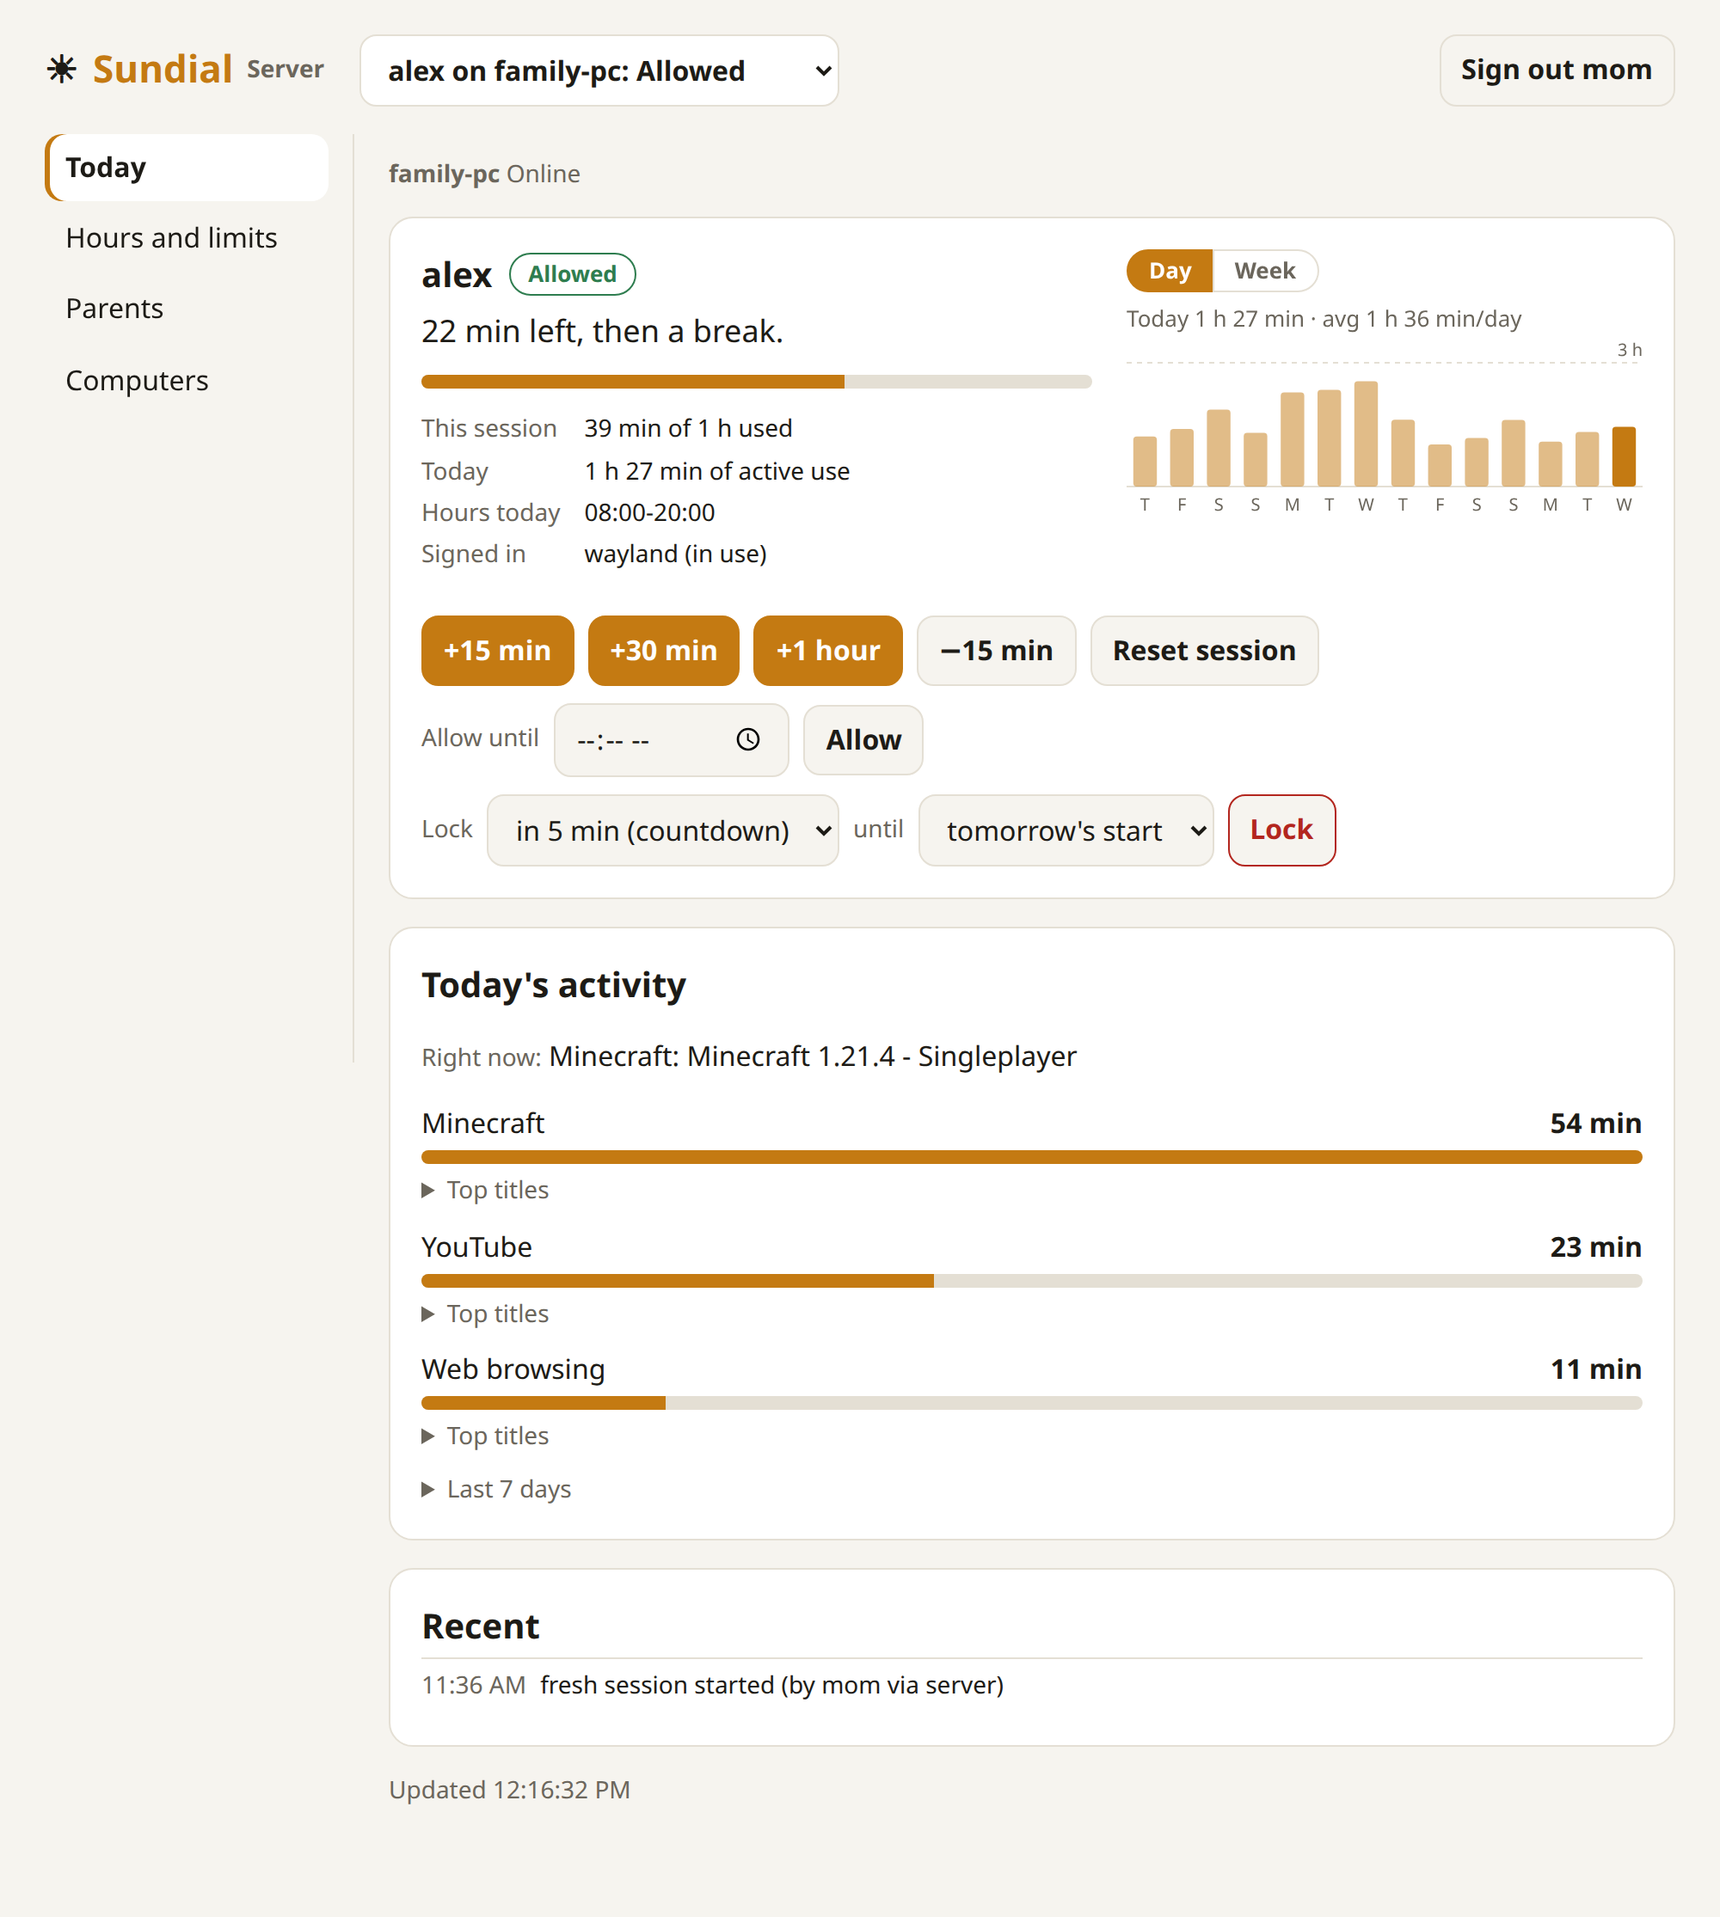
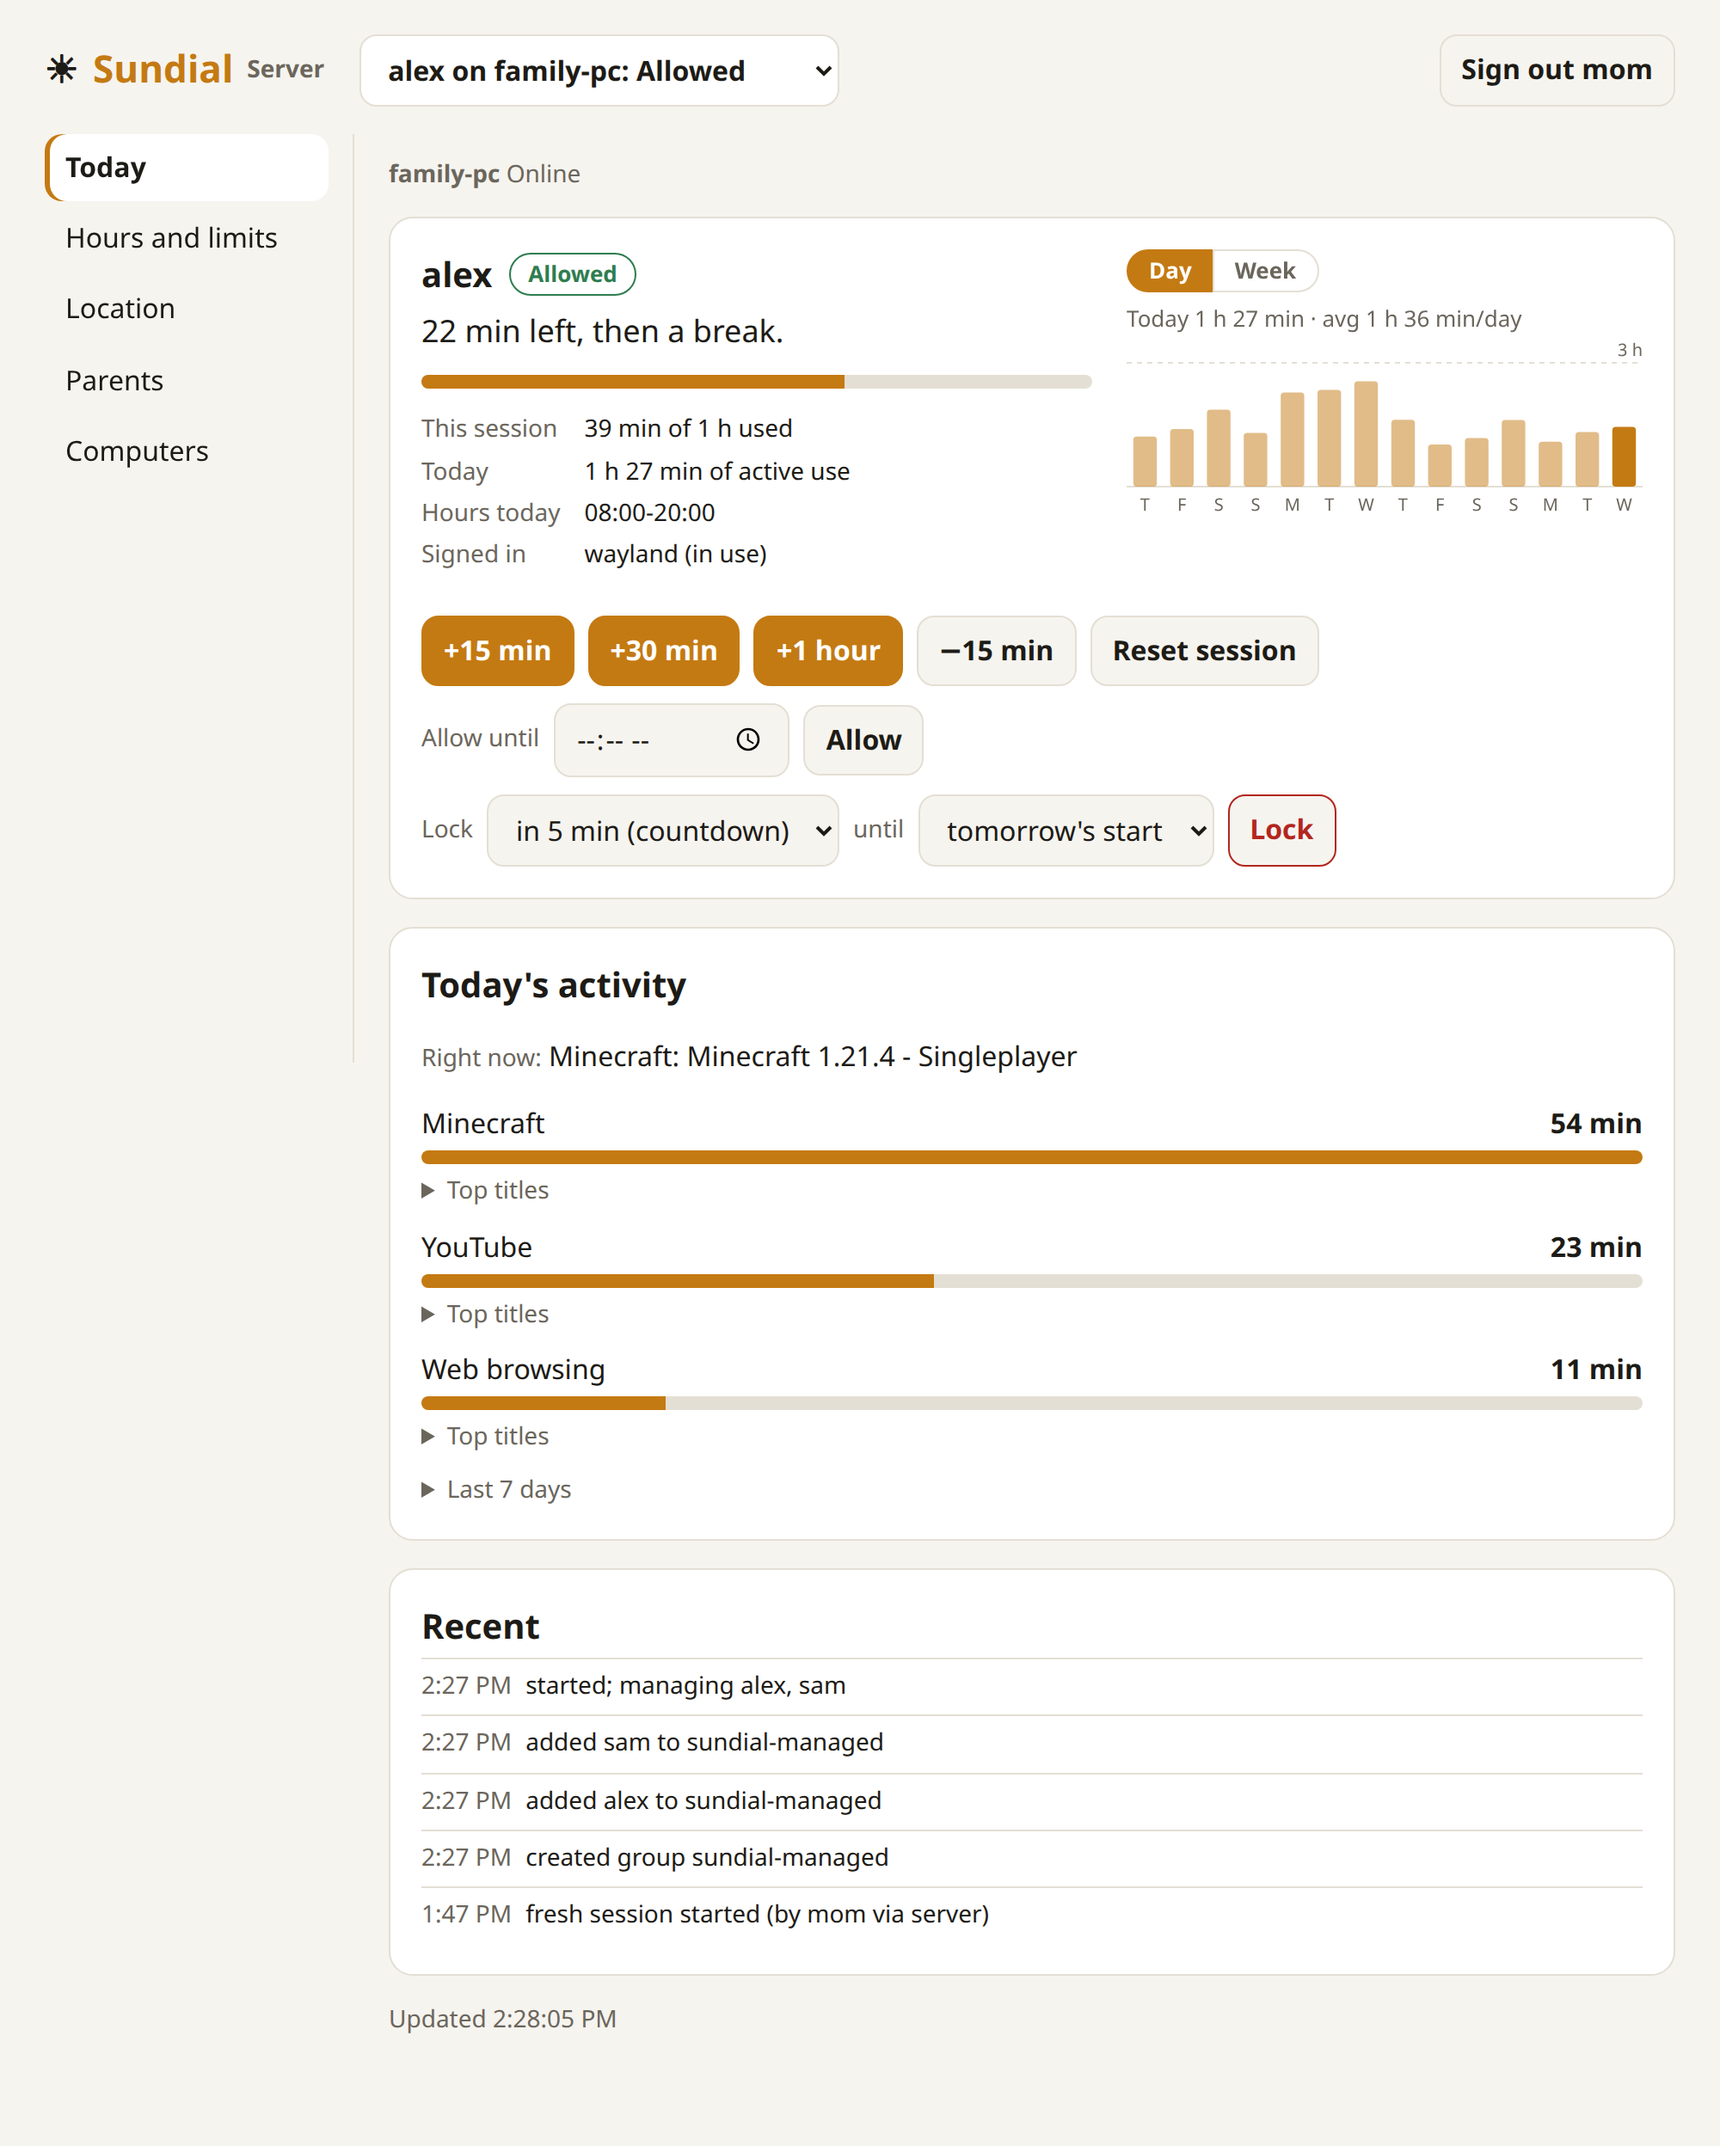
0.2.2: location

diff --git a/src/web.rs b/src/web.rs
@@ -92,6 +92,9 @@ impl Backend for Computers {
     }
 
     fn tab(&self, id: &str) -> Option<String> {
+        if id == "location" {
+            return Some(self.location());
+        }
         if id != "computers" {
             return None;
         }
@@ -115,8 +118,109 @@ impl Backend for Computers {
     }
 }
 
+impl Computers {
+    fn location(&self) -> String {
+        let now = Local::now();
+        let mut h = String::new();
+        for c in self.0.list(now.timestamp()) {
+            h.push_str(&location_card(&c, &now));
+        }
+        if h.is_empty() {
+            h.push_str(
+                "<section class=card><h2>Location</h2><p>Add a computer first.</p></section>",
+            );
+        }
+        h
+    }
+}
+
+fn location_card(c: &HostSummary, now: &DateTime<Local>) -> String {
+    let head = format!(
+        "<section class=card><h2>{} <span class='pill {}'>{}</span></h2>",
+        esc(&c.name),
+        if c.online { "ok" } else { "wait" },
+        state(c, now)
+    );
+    let Some(l) = c.status.as_ref().and_then(|s| s.location.as_ref()) else {
+        return format!(
+            "{head}<p class=muted>Sundial on this computer needs an update before it can show its location.</p></section>"
+        );
+    };
+    let button = |on: &str, class: &str, text: &str| {
+        format!(
+            "<form method=post action=/location class=row><input type=hidden name=id value=\"{}\">\
+             <input type=hidden name=on value={on}><button{class}>{text}</button></form>",
+            esc(&c.id)
+        )
+    };
+    if !l.on {
+        return format!(
+            "{head}<p>Location is off.</p><p class=muted>When it's on, this computer looks up its position every few minutes using \
+             the networks around it, and the child sees a notice that it's on. Only the latest position is kept.</p>{}</section>",
+            button("1", " class=primary", "Turn on location")
+        );
+    }
+    let place = match l.fix.filter(|f| f.valid()) {
+        Some(f) => format!(
+            "<p class=big>Within about {} of {:.4}, {:.4}</p>{}\
+             <p class=muted>As of {}.{}</p>\
+             <div class=row><a class=plain href=\"https://www.openstreetmap.org/?mlat={:.5}&amp;mlon={:.5}#map={}/{:.5}/{:.5}\" target=_blank rel=noreferrer>Show on a map</a></div>",
+            distance(f.accuracy_m),
+            f.lat,
+            f.lon,
+            if f.accuracy_m > ROUGH_METERS {
+                "<p class='flash err'>This is only a rough area. It's often the internet provider's location, not the computer's.</p>"
+            } else {
+                ""
+            },
+            fmt_when(f.at, now),
+            if c.online {
+                ""
+            } else {
+                " It's offline now, so it may have moved."
+            },
+            f.lat,
+            f.lon,
+            if f.accuracy_m > ROUGH_METERS { 10 } else { 16 },
+            f.lat,
+            f.lon
+        ),
+        None if l.problem.is_some() => String::new(),
+        None => "<p>Looking. The first position can take a minute.</p>".into(),
+    };
+    let problem = l
+        .problem
+        .as_ref()
+        .map(|p| {
+            format!(
+                "<p class='flash err'>The last try didn't work: {}</p>",
+                esc(p)
+            )
+        })
+        .unwrap_or_default();
+    format!(
+        "{head}{place}{problem}{}</section>",
+        button("0", "", "Turn off location")
+    )
+}
+
+const ROUGH_METERS: f64 = 3000.0;
+
+fn distance(m: f64) -> String {
+    if m < 1000.0 {
+        format!("{} m", ((m / 10.0).ceil() * 10.0).max(10.0))
+    } else {
+        format!("{} km", (m / 1000.0).round())
+    }
+}
+
 pub fn tabs() -> Vec<Tab> {
     vec![
+        Tab {
+            id: "location",
+            label: "Location",
+            href: "/?tab=location",
+        },
         Tab {
             id: "parents",
             label: "Parents",
@@ -143,6 +247,7 @@ pub fn router(hub: Arc<Hub>, auth: Arc<Auth>, admins: PathBuf, der: Option<Vec<u
     };
     let extra = Router::new()
         .route("/remove", post(remove))
+        .route("/location", post(location))
         .with_state(Extra {
             app: app.clone(),
             hub: hub.clone(),
@@ -162,12 +267,12 @@ pub fn router(hub: Arc<Hub>, auth: Arc<Auth>, admins: PathBuf, der: Option<Vec<u
 }
 
 #[allow(clippy::result_large_err)]
-fn guard(x: &Extra, headers: &HeaderMap, uri: &Uri) -> Result<(), Response> {
+fn guard(x: &Extra, headers: &HeaderMap, uri: &Uri) -> Result<String, Response> {
     if !same_origin(headers, uri) {
         return Err(StatusCode::FORBIDDEN.into_response());
     }
     match signed_in(&x.app, headers) {
-        Some(_) => Ok(()),
+        Some(p) => Ok(p),
         None => Err(Redirect::to("/").into_response()),
     }
 }
@@ -176,6 +281,45 @@ fn guard(x: &Extra, headers: &HeaderMap, uri: &Uri) -> Result<(), Response> {
 struct RemoveForm {
     id: String,
     confirm: Option<String>,
+}
+
+async fn location(
+    State(x): State<Extra>,
+    uri: Uri,
+    headers: HeaderMap,
+    Form(f): Form<LocationForm>,
+) -> Response {
+    let by = match guard(&x, &headers, &uri) {
+        Ok(by) => by,
+        Err(r) => return r,
+    };
+    let now = Utc::now().timestamp();
+    // Hosts that don't know the request would drop the connection over it.
+    let known = x
+        .hub
+        .list(now)
+        .into_iter()
+        .find(|c| c.id == f.id)
+        .is_some_and(|c| c.status.is_some_and(|s| s.location.is_some()));
+    let r = if known {
+        let on = f.on == "1";
+        x.hub
+            .enqueue(&f.id, AdminRequest::SetLocation { by, on }, now)
+    } else {
+        Err("This computer can't show its location.".into())
+    };
+    let q = match r {
+        Ok(true) => format!("msg={}", enc("Sent. It takes a few seconds.")),
+        Ok(false) => format!("msg={}", enc("Waiting; this computer is offline.")),
+        Err(e) => format!("err={}", enc(&e)),
+    };
+    Redirect::to(&format!("/?tab=location&{q}")).into_response()
+}
+
+#[derive(Deserialize)]
+struct LocationForm {
+    id: String,
+    on: String,
 }
 
 async fn remove(

diff --git a/src/setup.rs b/src/setup.rs
@@ -107,7 +107,6 @@ a{color:var(--accent)}.row a{align-self:center}
 .copy button{min-width:124px}.copy.big code{font-size:20px;font-weight:600;letter-spacing:.04em}
 @media(max-width:520px){.copy{flex-direction:column}}
 .qr{width:220px;max-width:100%;display:block;margin:8px 0 12px;border-radius:8px}.wait-line{display:flex;align-items:center;gap:8px}.wait-line i{width:9px;height:9px;border-radius:50%;background:var(--accent)}
-a.plain{display:inline-block;border:1px solid var(--line);border-radius:10px;padding:8px 14px;font-weight:600;text-decoration:none;color:var(--ink);background:var(--bg)}
 ol.todo{padding-left:22px}ol.todo li{margin:6px 0}
 ";
 

diff --git a/README.md b/README.md
@@ -19,6 +19,7 @@ Setup, and adding a computer:
 ## How it works
 
 - One server can manage several computers; choose a child at the top of the page. Each shows the same information and controls as Sundial's own page, activity included.
+- Optional location: see where a computer is, off until a parent turns it on. The child sees that it's on.
 - Only the server needs to be reachable. Nothing is opened on the child's computer or network.
 - A change made while a computer is offline waits for it. Extra time expires after 30 minutes, so it can't turn up the next day.
 - The pairing code works once, for 15 minutes. With a self-signed certificate it also lets the computer recognize the server.
